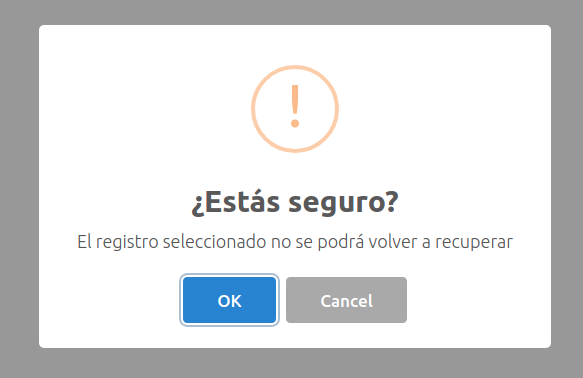
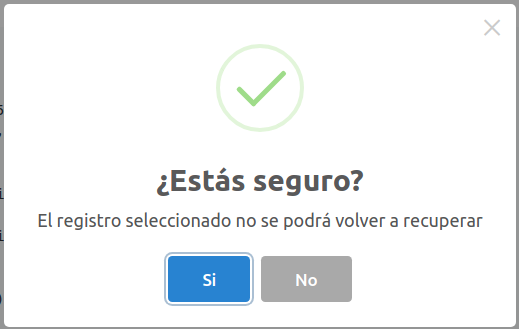
commit

diff --git a/src/components/Examples/Tabs/TabOnBeforeUnLoad.js b/src/components/Examples/Tabs/TabOnBeforeUnLoad.js
@@ -1,0 +1,81 @@
+import React, {useRef, useState} from 'react'
+import OnBeforeUnLoad from "../../Commons/OnBeforeUnLoad";
+
+const TabOnBeforeUnload = () => {
+
+    const initialize = {personal: {nombre: '', apellidos: ''}, cargo: ''}
+    const [dataOld, setDataOld] = useState(initialize)
+    const [dataNew, setDataNew] = useState(initialize)
+    const isChange = useRef(false)
+
+    return (
+        <div>
+            <br/>
+            <OnBeforeUnLoad dataOld={dataOld} dataNew={dataNew} skipFields={['cargo', 'personal.nombre']}>
+                <form>
+                    <div className="form-group">
+                        <input
+                            type="text"
+                            className="form-control"
+                            placeholder="Nombre"
+                            name="name"
+                            value={dataNew.personal.nombre}
+                            onChange={(e) => {
+                                setDataNew({...dataNew, personal: {...dataNew.personal, nombre: e.target.value}})
+                                isChange.current = true
+                            }}/>
+                    </div>
+
+                    <div className="form-group">
+                        <input
+                            type="text"
+                            className="form-control"
+                            placeholder="Apellidos"
+                            name="lastname"
+                            value={dataNew.personal.apellidos}
+                            onChange={(e) => {
+                                setDataNew({...dataNew, personal: {...dataNew.personal, apellidos: e.target.value}})
+                                isChange.current = true
+                            }}/>
+                    </div>
+                    <div className="form-group">
+                        <input
+                            type="text"
+                            className="form-control"
+                            placeholder="Cargo"
+                            name="cargo"
+                            value={dataNew.cargo}
+                            onChange={(e) => {
+                                setDataNew({...dataNew, cargo: e.target.value})
+                                isChange.current = true
+                            }}/>
+                    </div>
+                    <button type="button" className={`btn btn-${isChange.current ? 'primary' : 'secondary'}`}
+                            onClick={() => {
+                                setDataOld(dataNew)
+                                isChange.current = false
+                            }}>Guardar
+                    </button>
+                </form>
+            </OnBeforeUnLoad>
+
+            <br/>
+
+            <figure>
+            <pre>
+                <code>
+{`
+<OnBeforeUnLoad dataOld={dataOld} dataNew={dataNew} skipFields={['cargo', 'personal.nombre']}>
+    {children}
+</OnBeforeUnLoad>
+`}
+                </code>
+            </pre>
+            </figure>
+
+
+        </div>
+    )
+}
+
+export default TabOnBeforeUnload

diff --git a/src/components/Examples/index.js b/src/components/Examples/index.js
@@ -9,11 +9,12 @@ import TabTypeahead from "./Tabs/TabTypeahead";
 import TabSelect from "./Tabs/TabSelect";
 import TabForms from "./Tabs/TabForms";
 import {Link} from "react-router-dom";
-import {faExternalLinkAlt} from "@fortawesome/free-solid-svg-icons";
-import {FontAwesomeIcon} from "@fortawesome/react-fontawesome";
 import TabCalendar from "./Tabs/TabCalendar";
+import TabOnBeforeUnload from "./Tabs/TabOnBeforeUnLoad";
 
 export default function Examples () {
+
+
 
     return (
         <div className="container my-4">
@@ -54,6 +55,9 @@ export default function Examples () {
                 </li>
                 <li className="nav-item">
                     <a className="nav-link" data-toggle="tab" href="#calendar" role="tab">Calendar</a>
+                </li>
+                <li className="nav-item">
+                    <a className="nav-link" data-toggle="tab" href="#beforeUnload" role="tab">OnBeforeUnload</a>
                 </li>
             </ul>
             <div className="tab-content" id="myTabContent">
@@ -96,6 +100,10 @@ export default function Examples () {
                 <div className="tab-pane fade" id="calendar" role="tabpanel">
                     <br/>
                     <TabCalendar/>
+                </div>
+                <div className="tab-pane fade" id="beforeUnload" role="tabpanel">
+                    <br/>
+                    <TabOnBeforeUnload/>
                 </div>
             </div>
 

diff --git a/src/components/Examples/Tabs/TabModal.js b/src/components/Examples/Tabs/TabModal.js
@@ -1,7 +1,7 @@
 import React, {useState} from 'react'
 import Modal from "../../Commons/Modal";
 import Modal2 from "../../Commons/Modal2";
-import {faCheck} from "@fortawesome/free-solid-svg-icons";
+import {faCheck, faTimes} from "@fortawesome/free-solid-svg-icons";
 import {FontAwesomeIcon} from "@fortawesome/react-fontawesome";
 
 
@@ -63,17 +63,17 @@ return (
     }
 
     const options = {
-        title: 'Modal title',
+        title:'Enter username',
         onOk: onCallback,
         onCancel: onCallback,
         onBackdrop: onCallback,
-        textOk: 'Aceptar',
-        textCancel: 'Salir',
-        size: '', // sm (default), xl, lg
-        btSize: 'sm', // sm, md (default), lg
+        textOk: 'Ok',
+        textCancel: 'Cancelar',
+        size: '', // sm, lg (size modal)
+        btSize: 'sm', // sm, lg (size button OK, Cancel)
         iconButton: true,
-        iconOK: 'add',// 'add', 'update', 'ok' or Object Font Awesome (ex: faCheck),
-        iconCancel: '', // 'Cancel' or Object Font Awesome (ex: faCheck),
+        iconOK: faCheck, // 'add', 'update', 'ok' or Object Font Awesome (ex: faUsers) --> import {faCheck} from "@fortawesome/free-solid-svg-icons";
+        iconCancel: faTimes,
         colorOk: 'primary', // ('primary', 'secondary', 'success', 'danger', 'warning', 'info', 'light', 'dark', 'link')
         colorCancel: 'secondary',
         footer: {

diff --git a/src/components/Commons/OnBeforeUnLoad/index.js b/src/components/Commons/OnBeforeUnLoad/index.js
@@ -1,0 +1,55 @@
+import React, {useEffect, useRef} from 'react'
+import {Prompt} from "react-router-dom";
+import _ from 'lodash'
+
+const OnBeforeUnLoad = ({
+                            children, dataOld, dataNew, skipFields = [],
+                            message = `Hay cambios sin guardar.\n¿Seguro que quiere salir de esta página?`
+                        }) => {
+
+    const _dataOld = useRef(null)
+    const _dataNew = useRef(null)
+
+    useEffect(() => {
+
+        _dataOld.current = dataOld
+        _dataNew.current = dataNew
+
+    }, [dataOld, dataNew])
+
+    useEffect(() => {
+        window.addEventListener('beforeunload', function (e) {
+
+            let status = isEqualObjects()
+            if (!status) {
+                // Hay cambios
+                e.preventDefault();
+                e.returnValue = '';
+            }
+
+        });
+
+    }, [])
+
+    const isEqualObjects = () => {
+
+        // skip fields
+        let obj_old = _.omit(_dataOld.current, skipFields)
+        let obj_new = _.omit(_dataNew.current, skipFields)
+
+        return _.isEqual(obj_old, obj_new)
+
+    }
+
+    return (
+        <div>
+            <Prompt when={!isEqualObjects()}
+                    message={message}
+            />
+            {children}
+        </div>
+    )
+
+}
+
+export default OnBeforeUnLoad

diff --git a/src/components/Examples/Tabs/TabTable.js b/src/components/Examples/Tabs/TabTable.js
@@ -291,9 +291,9 @@ return (
                             {
                                 thead: {
 
-                                    textNone: 'No se ha encontrado registrosssss',
-                                    textOnly: 'Se ha encontrado {X} registrosssss',
-                                    textMore: 'Se ha encontrado {X} registrosssss',
+                                    textNone: 'No se ha encontrado registros',
+                                    textOnly: 'Se ha encontrado {X} registro',
+                                    textMore: 'Se ha encontrado {X} registros',
                                     color: 'light'
                                 },
                                 actions: ['delete','get','create','export'],

diff --git a/src/components/Examples/Tabs/TabAlertConfirm.js b/src/components/Examples/Tabs/TabAlertConfirm.js
@@ -37,13 +37,11 @@ return (
     const onClickConfirm = () => {
         AlertConfirm({
             backdrop: true,
-            confirmButtonColor: '#3085d6',
-            cancelButtonColor: '#aaa',
             position: 'center',
             title: '¿Estás seguro?',
             text: 'El registro seleccionado no se podrá volver a recuperar',
             type: 'success',
-            confirmButtonText:'Si, eliminar',
+            confirmButtonText:'Si',
             cancelButtonText: 'No',
             onConfirm: () => {
                 console.log('confirm')

diff --git a/src/components/Examples/Tabs/TabNotification.js b/src/components/Examples/Tabs/TabNotification.js
@@ -26,9 +26,9 @@ return (
     const onClickNotification = () => {
         Notification({
             classContainer: 'container-toast',
-            text: 'Introduzca su e-mail',
-            type: 'info',
-            timer: 3500
+            text: 'Insertado correctamente!',
+            type: 'success',
+            timer: 5500
         })
     }
     const onClickNotificationHTML = () => {

diff --git a/README.md b/README.md
@@ -61,6 +61,8 @@ import {
 | onLogin | Function | none | Callback method |
 
 
+![alt text](https://github.com/hotusa/react-examples/blob/master/src/images/login.png?raw=true)
+
 ## Notification
 
 ```javascript
@@ -92,6 +94,8 @@ onLogin = (datos) => {
 | type | String | none | The type of the Modal: warning, error, success, info, and question |
 | timer | Number | 3500 | Auto close timer of the Modal. Set in ms (milliseconds) | 
 
+
+![alt text](https://github.com/hotusa/react-examples/blob/master/src/images/notifications.png?raw=true)
 
 ## Alert confirm
 
@@ -147,6 +151,9 @@ onClickConfirm = () => {
                                         You can also pass a custom function returning a boolean value, e.g. if you want to disable outside clicks for the loading state of a modal. |
 
 
+![alt text](https://github.com/hotusa/react-examples/blob/master/src/images/alertconfirm.png?raw=true)
+
+
 ## Pagination
 
 ```html
@@ -164,6 +171,8 @@ onClickConfirm = () => {
 | pag | Number | none | Actual page |
 | onPagination | Function | none | Callback method for return selected page |
 
+
+![alt text](https://github.com/hotusa/react-examples/blob/master/src/images/pagination.png?raw=true)
 
 ## Table
 
@@ -306,6 +315,8 @@ Más info:
 - https://github.com/ConnorAtherton/loaders.css
 
 
+![alt text](https://github.com/hotusa/react-examples/blob/master/src/images/table.png?raw=true)
+
 ## Modal
 
 ```html
@@ -352,6 +363,8 @@ const options = {
 }
 ```
 
+![alt text](https://github.com/hotusa/react-examples/blob/master/src/images/modal.png?raw=true)
+
 
 ## Typeahead
 
@@ -370,7 +383,6 @@ const options = {
     onBlur={onBlur}
     />
     
-<button onClick={(e)=>{ setClear(clear+1)}}>Clear</button>
 ```
 
 | Props        | Options           | Default | Description |
@@ -426,6 +438,10 @@ const onKeyDown = (e) => {
 }
 ```
 
+![alt text](https://github.com/hotusa/react-examples/blob/master/src/images/typeahead.png?raw=true)
+
+
+
 ## Calendar
 ```html
 <IGMCalendar
@@ -452,6 +468,8 @@ const onKeyDown = (e) => {
 | showPopperArrow | Boolean | false | Show arrow popper |  
 | popperPlacement | String | 'bottom-end' | Position calendar ('bottom-end','top-end', 'top-start', 'bottom-start') |  
 | tabIndex | Number | 1 | Position z-Index calendar |  
+
+![alt text](https://github.com/hotusa/react-examples/blob/master/src/images/calendar.png?raw=true)
 
 
 ## Utilidades
